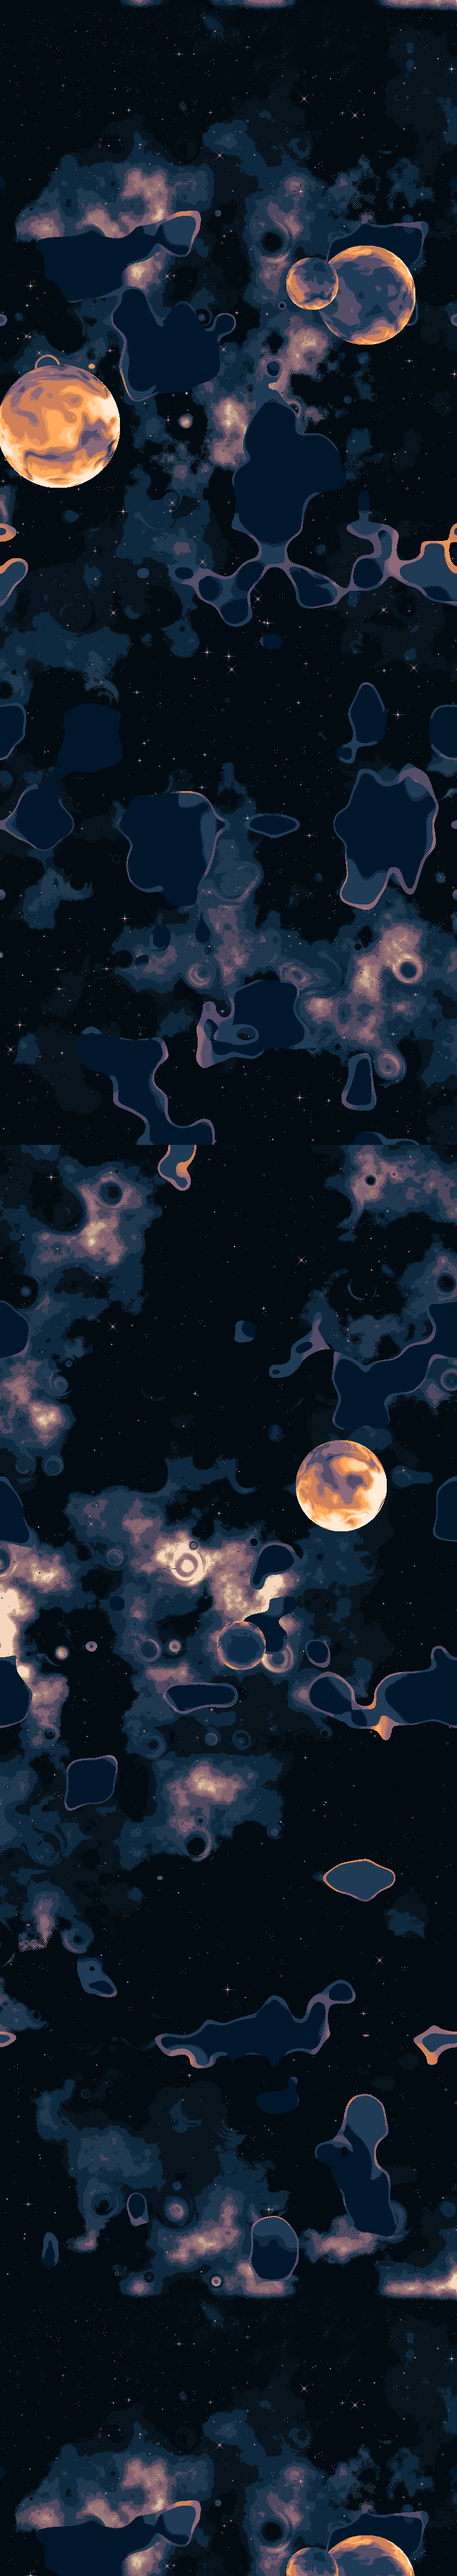
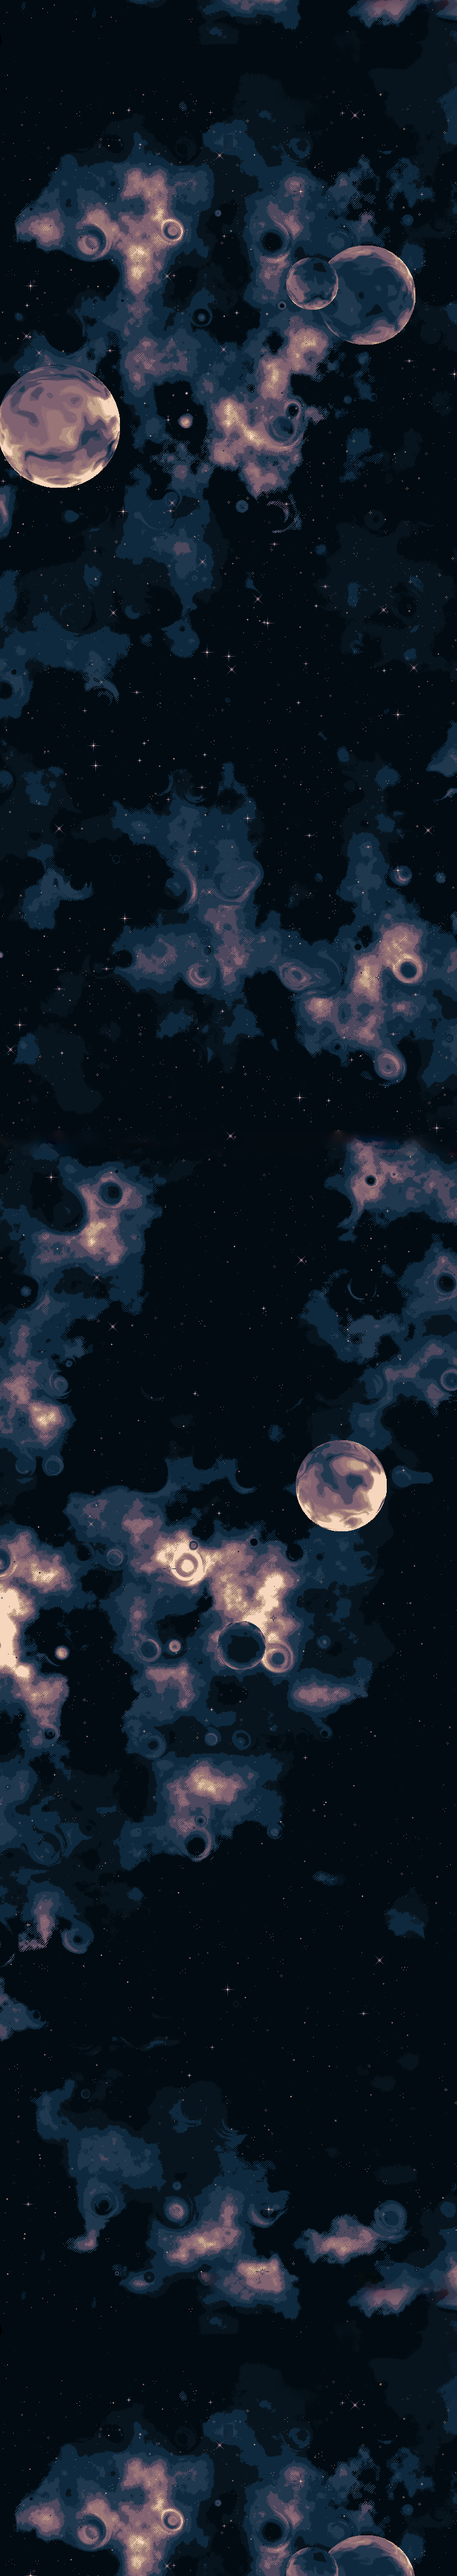
added crosshair, fixing background, and fix some credites. need to take a look for explosion and hearth assets

diff --git a/assets/js/script.js b/assets/js/script.js
@@ -34,6 +34,11 @@ class Player extends Sprites {
         ctx.drawImage(this.image, this.posX, this.posY, this.image.width / 4, this.image.height / 4);
     }
 }
+class Pointer extends Sprites {
+    draw() {
+        ctx.drawImage(this.image, mouse.x-34, mouse.y);
+    }
+}
 class Background extends Sprites {
     draw() {
         ctx.drawImage(this.image, this.posX, this.posY);
@@ -42,7 +47,7 @@ class Background extends Sprites {
         if (this.posY > 0){
             gameBackground.posY = -4000;
         }
-        this.posY += 1;
+        this.posY += 0.7;
     }
 }
 class Bullet extends Sprites {
@@ -82,6 +87,7 @@ class Bullet extends Sprites {
     let gameBackground = new Background('background', 0, -4000);
     let vaisseau = new Player('spaceship', 300, 380);
     let flame = new Player('flame1', vaisseau.posX, vaisseau.posY+35);
+    let crosshair = new Pointer('crosshair', mouse.x, mouse.y);
     let bullets = [];
  
 /**================================================================================================
@@ -154,6 +160,7 @@ function render() {
   }
   vaisseau.draw();
   flame.draw();
+  crosshair.draw();
 }
 
 /**================================================================================================

diff --git a/index.html b/index.html
@@ -19,10 +19,14 @@
                 <img src="./assets/storage/space-bg.png" id="background">
                 <img src="./assets/storage/Asteroid1.png" id="asteroid1">
                 <img src="./assets/storage/Asteroid2.png" id="asteroid2">
+                <img src="./assets/storage/Asteroid3.png" id="asteroid3">
+                <img src="./assets/storage/Asteroid4.png" id="asteroid4">
+                <img src="./assets/storage/Asteroid5.png" id="asteroid5">
                 <img src="./assets/storage/Flame_01.png" id="flame1">
                 <img src="./assets/storage/Flame_02.png" id="flame2">
                 <img src="./assets/storage/laser-small.png" id="laserSmall">
                 <img src="./assets/storage/laser.png" id="laser">
+                <img src="./assets/storage/crosshair.png" id="crosshair">
             </caption>           
         </section>
     </main>

diff --git a/assets/css/style.scss b/assets/css/style.scss
@@ -78,7 +78,7 @@ h1, h2, h3, h4, h5, h6{
 
     canvas{
         border: 2px solid $black-300;
-        cursor: crosshair;
+        cursor: none;
     }
 }
 img{

diff --git a/assets/css/style.css b/assets/css/style.css
@@ -58,7 +58,7 @@ h1, h2, h3, h4, h5, h6 {
 
 #game canvas {
   border: 2px solid #1d1a1a;
-  cursor: crosshair;
+  cursor: none;
 }
 
 img {

diff --git a/README.md b/README.md
@@ -4,11 +4,13 @@ https://fourneauxthibaut.github.io/PewPew/
 
 
 ## Credits
-| For               |      Author       |  Link                                         |
-|-------------------|:-----------------:|-----------------------------------------------|
-| laser             |  Wenrexa          | https://wenrexa.itch.io/laser2020             |
-| spaceship         |  Gisha            | https://gisha.itch.io/spaceships-asset-pack   |
-| reactor flame     |  Gisha            | https://gisha.itch.io/spaceships-asset-pack   |
+| For               |      Author       |  Link                                                 |
+|-------------------|:-----------------:|-------------------------------------------------------|
+| laser             |  Wenrexa          | https://wenrexa.itch.io/laser2020                     |
+| spaceship         |  Gisha            | https://gisha.itch.io/spaceships-asset-pack           |
+| reactor flame     |  Gisha            | https://gisha.itch.io/spaceships-asset-pack           |
+| background tool   |  Deep-Fold        | https://deep-fold.itch.io/space-background-generator  |
+| Crosshair         |  Kenney           | https://www.kenney.nl/assets/crosshair-pack           |
 
 | hearth            |              |    |
 | explosion         |              |    |
